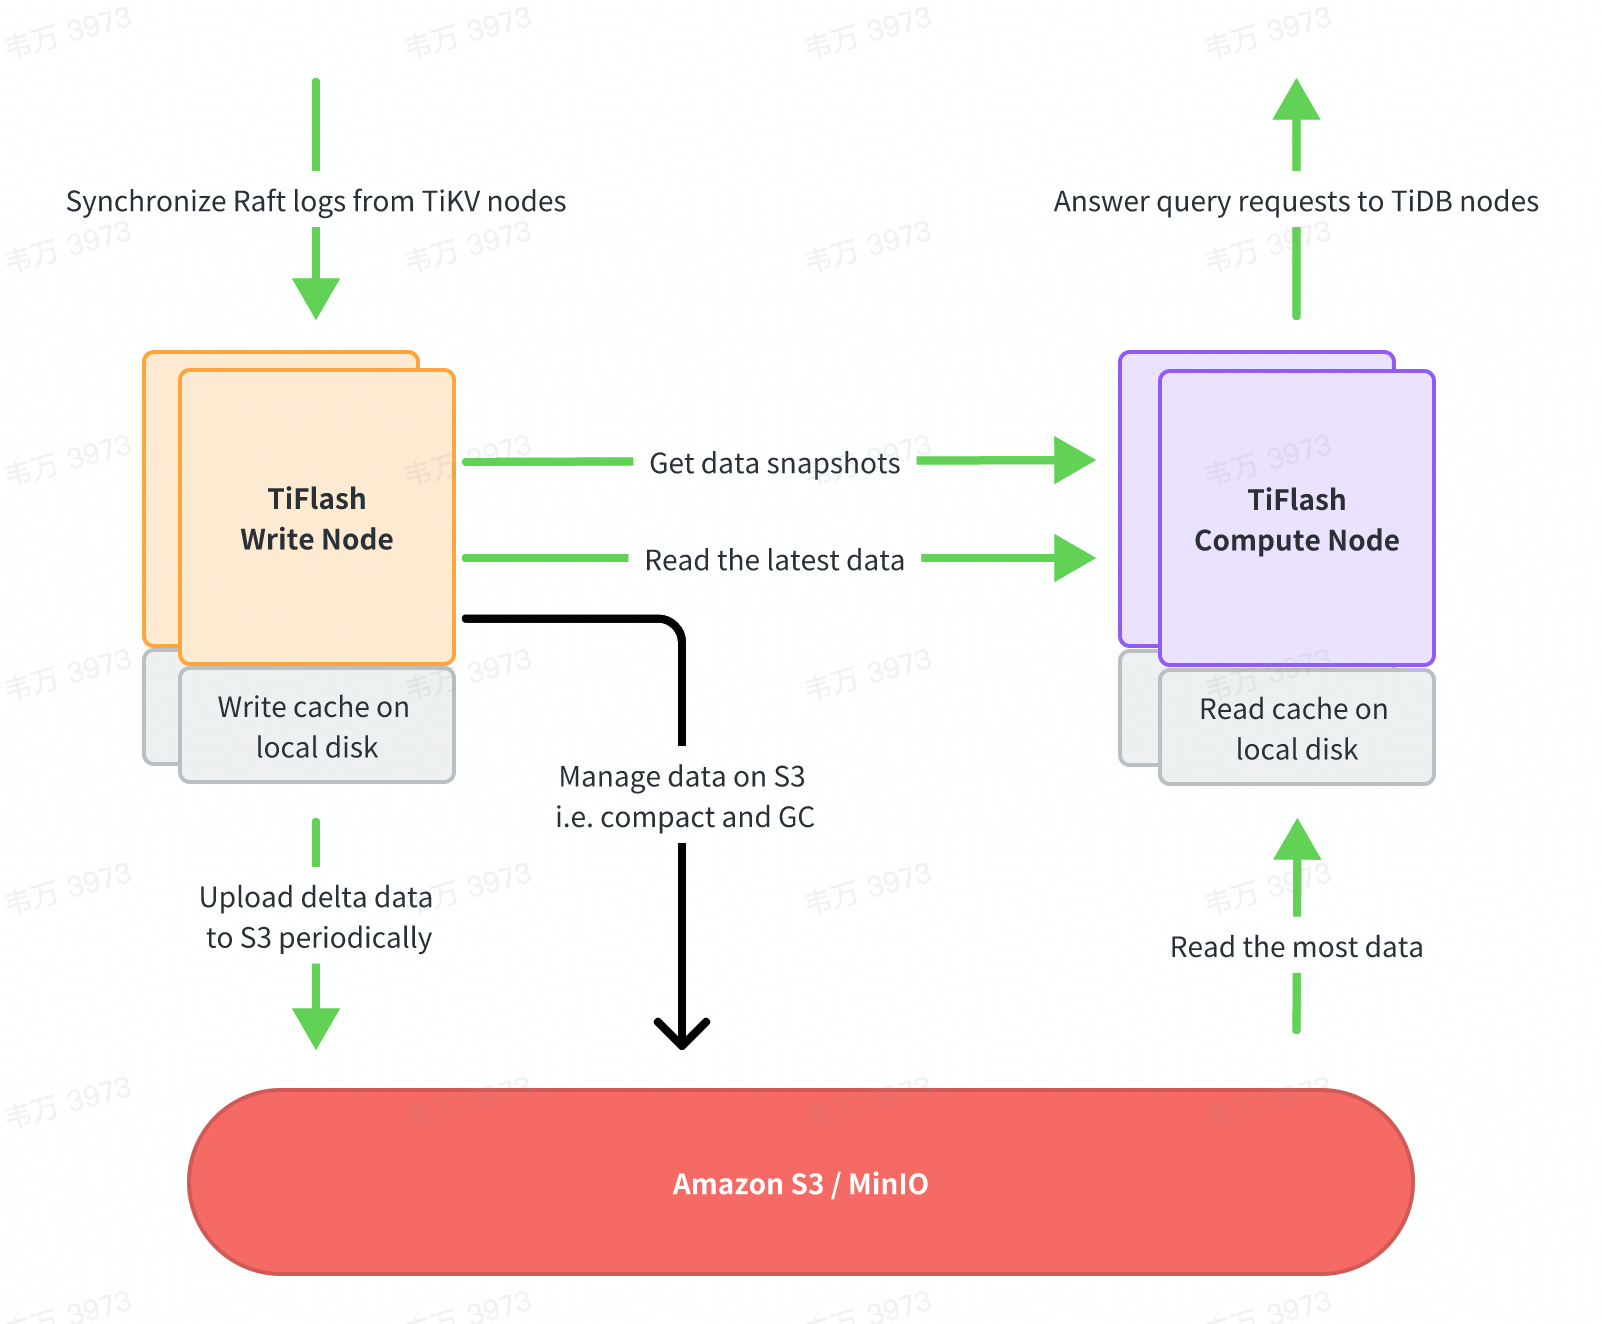
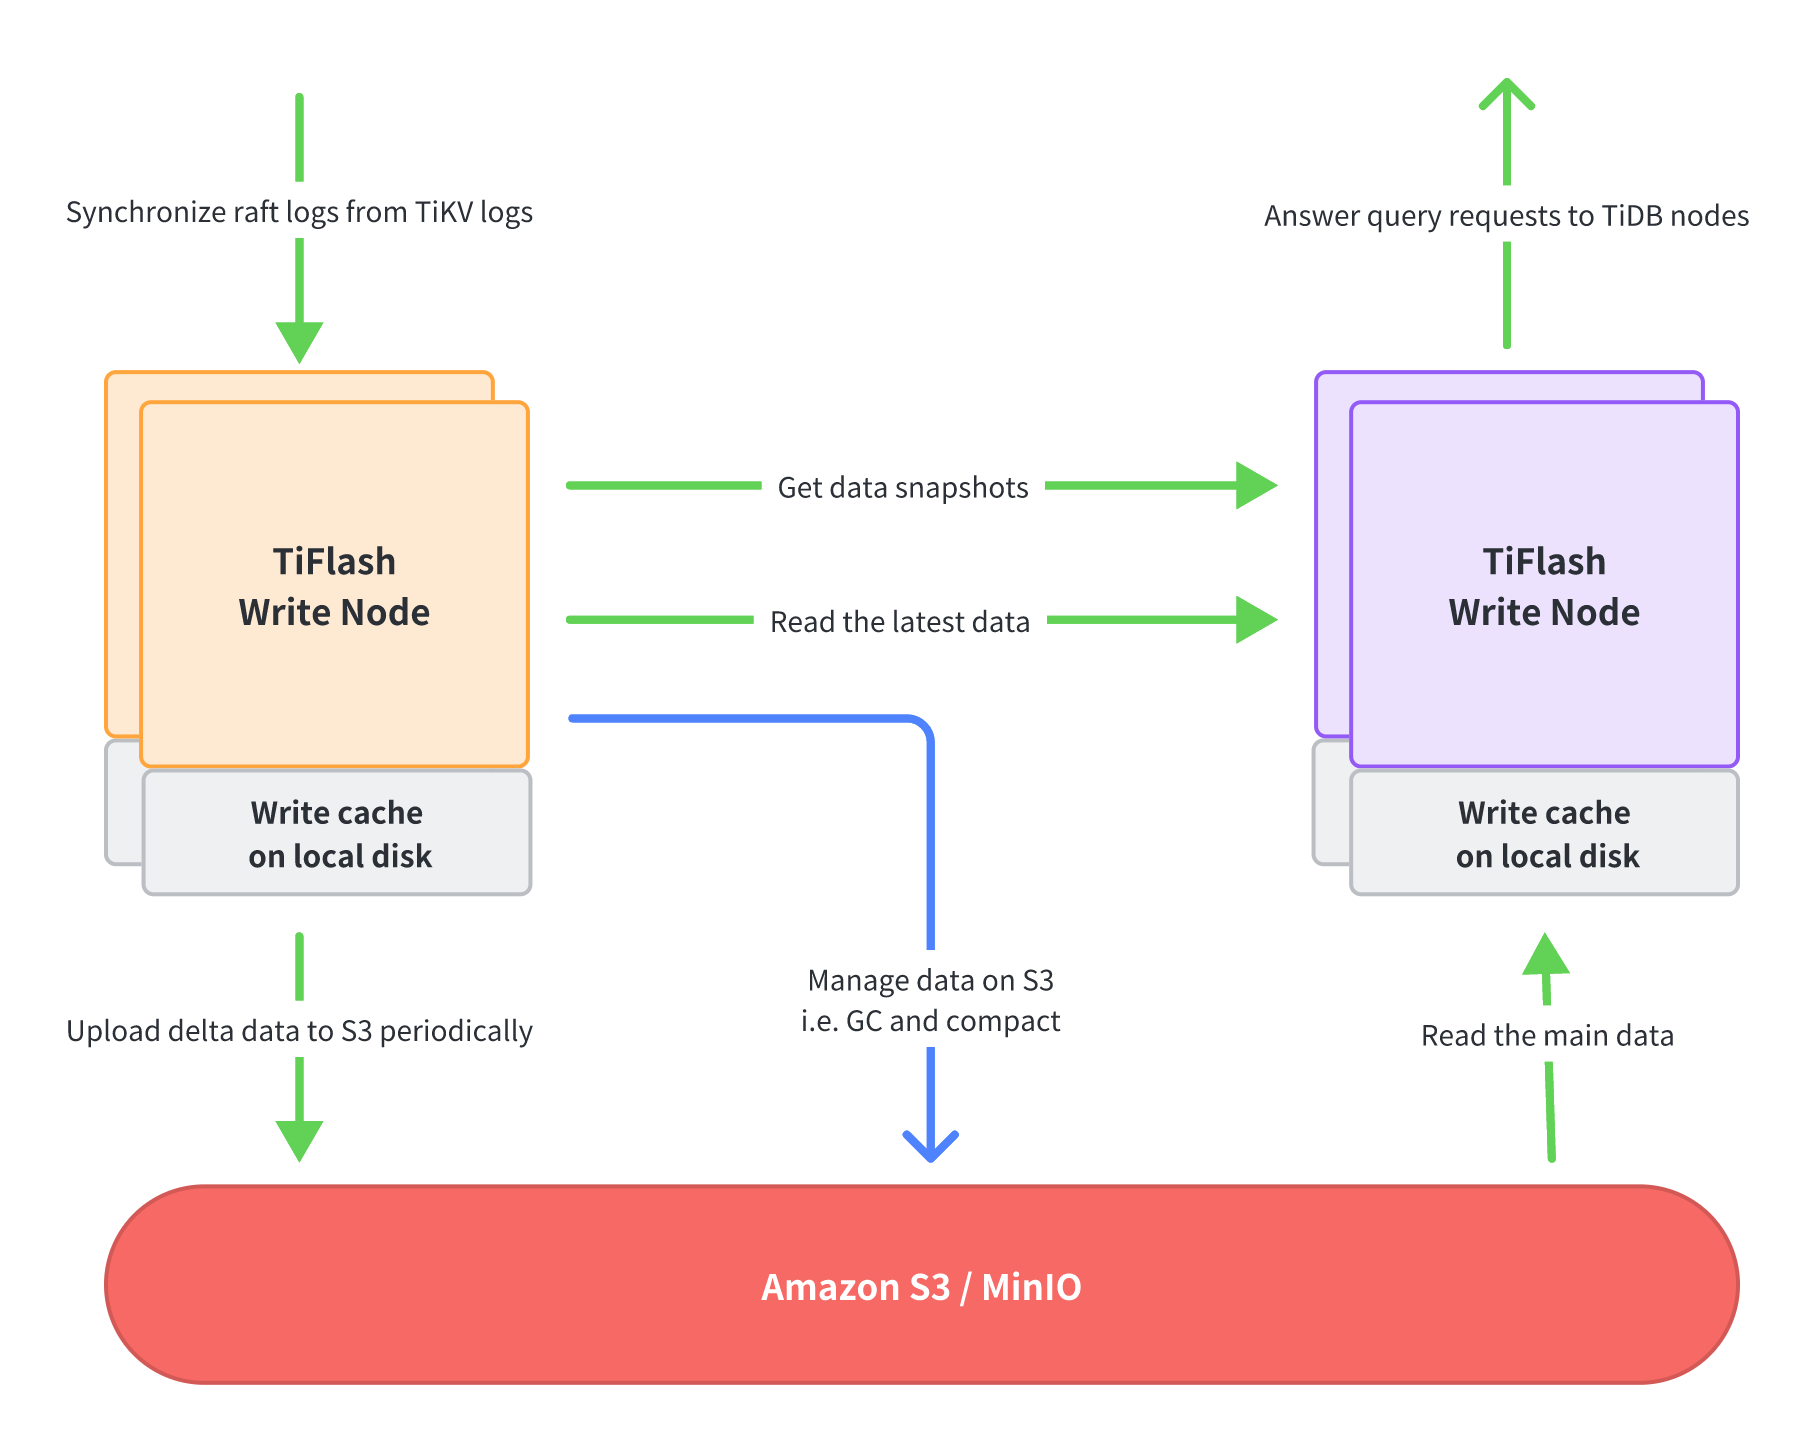
fix picture

Changed region(s): [[0.0312, 0.0619, 0.9675, 0.9909], [0.4057, 0.8671, 0.593, 0.929], [0.1248, 0.3716, 0.2497, 0.4335]]

diff --git a/tiflash/tiflash-configuration.md b/tiflash/tiflash-configuration.md
@@ -111,7 +111,7 @@ delta_index_cache_size = 0
     ## auto_tune_sec 表示自动调整的执行间隔，单位为秒。设为 0 表示关闭自动调整。
     # auto_tune_sec = 5
 
-    ## 下面的配置只针对存算分离模式生效，详细参考文档 [TiFlash 存算分离架构与 S3 支持](/tiflash/tiflash-disaggregated-and-s3.md)
+    ## 下面的配置只针对存算分离模式生效，详细参考文档 [TiFlash 存算分离架构与 S3 支持](https://docs.pingcap.com/zh/tidb/dev/tiflash-disaggregated-and-s3)
     # [storage.s3]
     # endpoint: http://s3.{region}.amazonaws.com # S3 的 endpoint 地址
     # bucket: mybucket                           # TiFlash 的所有数据存储在这个 bucket 中
@@ -127,7 +127,7 @@ delta_index_cache_size = 0
     tidb_status_addr = tidb status 端口地址 # 多个地址以逗号分割
     service_addr =  TiFlash raft 服务 和 coprocessor 服务监听地址
 
-    ## 这个配置表示使用存算分离架构，详细参考文档 [TiFlash 存算分离架构与 S3 支持](/tiflash/tiflash-disaggregated-and-s3.md)
+    ## 下面的配置只针对存算分离模式生效，详细参考文档 [TiFlash 存算分离架构与 S3 支持](https://docs.pingcap.com/zh/tidb/dev/tiflash-disaggregated-and-s3)
     # disaggregated_mode = tiflash_write # tiflash_write 或者 tiflash_compute
 
 # 多个 TiFlash 节点会选一个 master 来负责往 PD 增删 placement rule，通过 flash.flash_cluster 中的参数控制。
